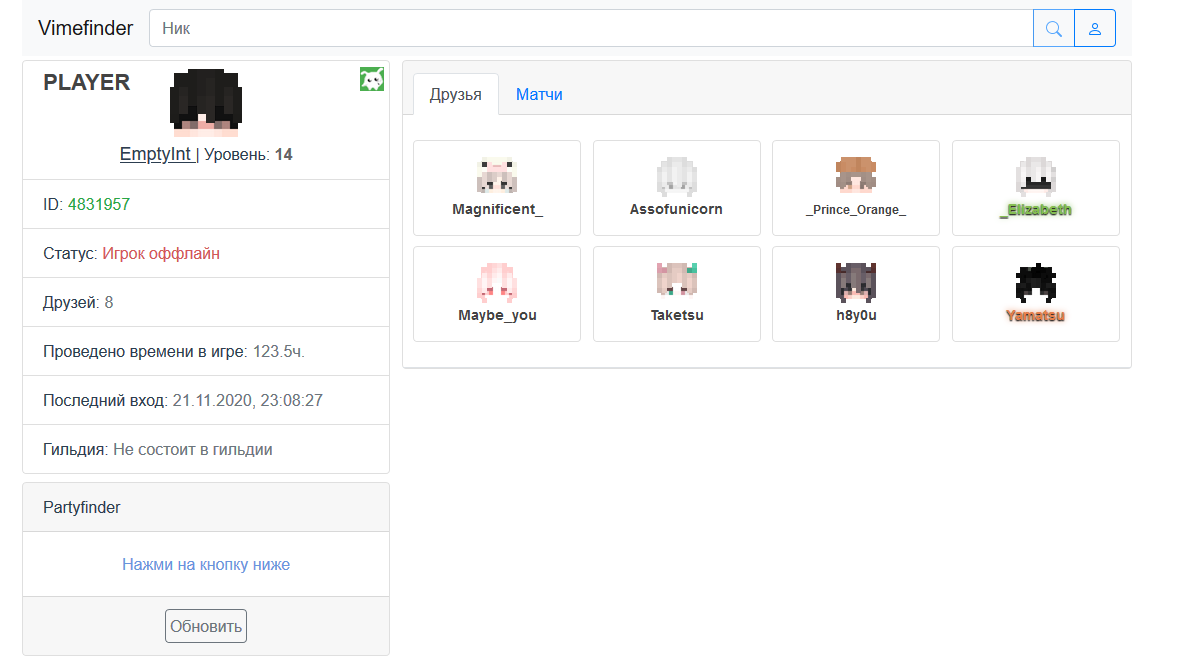
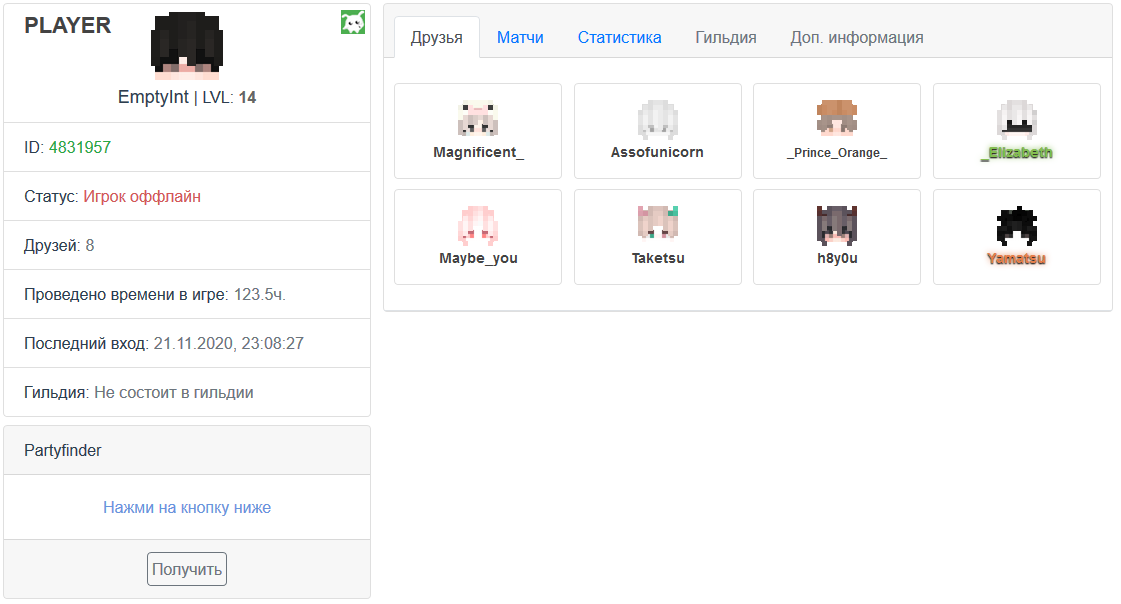
[description]
* .png's update
* Legacy matches integration
* Filters applied

diff --git a/src/components/Match.vue b/src/components/Match.vue
@@ -1,6 +1,6 @@
 <template>
     <div>
-        <b-card style="height: 8rem; width:13rem;" class="mt-3 mb-2" no-body>
+        <b-card style="height: 9rem; width:13rem;" class="mt-3 mb-2" no-body>
             <b-card-body class="position: relative;">
                 <b-card-title class="game-title">
                     {{match.game | translateTitle}}
@@ -8,9 +8,10 @@
                     <hr>
                 </b-card-title>
                 <div class="text-center">
-                    <p><span class="text-muted">Карта: </span> {{match.map.name}}</p>
+                    <p><span class="text-muted">Карта: </span> <span :style="{fontSize: (match.map.name.length > 14 ? '14px' : '16px')}">{{match.map.name}}</span></p>
                     <p><span class="text-muted">Игроков: </span> {{match.players}}</p>
                     <p><span class="text-muted">Длительность: </span> {{match.duration | normalDate}}</p>
+                    <p><span class="text-muted">Дата: </span> {{match.date | toLocaleDate}}</p>
                 </div>
             </b-card-body>
         </b-card>
@@ -27,14 +28,26 @@ export default {
     },
     methods:{
         getStatusColor(){
-            if(this.match.state === 1) return '#7BBD4F'
-            else if (this.match.state === 0) return '#D15252'
-            else return '#CAC959'
+            if(this.match.state){
+                if(this.match.state === 1) return '#7BBD4F'
+                else if (this.match.state === 0) return '#D15252'
+                else return '#CAC959'
+            }
+            else{
+                if(this.match.win) return '#7BBD4F'
+                else return '#D15252'
+            }
         },
         getStatusTitle(){
-            if(this.match.state === 1) return 'Победа'
-            else if (this.match.state === 0) return 'Поражение'
-            else return 'Ничья'
+            if(this.match.state){
+                if(this.match.state === 1) return 'Победа'
+                else if (this.match.state === 0) return 'Поражение'
+                else return 'Ничья'
+            }
+            else{
+                if(this.match.win) return 'Победа'
+                else return 'Поражение'
+            }
         }
     },
     filters:{
@@ -56,9 +69,16 @@ export default {
                     return 'Hunger Games Lucky'
                 case 'DUELS':
                     return 'Duels'
+                case 'SW':
+                    return 'Sky Wars'
+                case 'MURDER':
+                    return 'Murder Mystery'
                 default:
                     return value
             }
+        },
+        toLocaleDate : function(value){
+            return new Date(value * 1000).toLocaleString();
         }
     }
 }

diff --git a/src/views/User.vue b/src/views/User.vue
@@ -15,7 +15,7 @@
                                 <Person v-for="person in user.friends" :key="person.id" :person="person" />
                             </b-row>
                         </b-tab>
-                        <b-tab title="Матчи" @click="matchFirstLoad">
+                        <b-tab title="Матчи" @click="matchFirstLoad" :disabled="loading">
                             <Loader v-if="matchesLoading"/>
                             <b-row v-else cols="3" v-cloak>
                                 <b-col v-for="match in user.matches" :key="match.id">
@@ -98,12 +98,12 @@
 
                 console.log(rawUser);
 
-                if (rawUser != undefined) {
+                if (rawUser) {
                     this.user.rawUser = rawUser
-                    this.user.username = rawUser['username']
-                    this.user.last_seen = new Date(rawUser['lastSeen'] * 1000).toLocaleString();
-                    this.user.level = rawUser['level']
-                    this.user.id = rawUser['id']
+                    this.user.username = rawUser.username
+                    this.user.last_seen = rawUser.lastSeen
+                    this.user.level = rawUser.level
+                    this.user.id = rawUser.id
 
                     const session = await request(`http://localhost:5000/api/user/${this.user.id}/session`)
                     this.user.rawSession = session

diff --git a/src/components/Session.vue b/src/components/Session.vue
@@ -41,7 +41,7 @@
                 </b-list-group-item>
                 <b-list-group-item>
                     Последний вход:
-                    <span class="text-muted">{{user.last_seen}}</span>
+                    <span class="text-muted">{{user.last_seen | toLocaleDate}}</span>
                 </b-list-group-item>
                 <b-list-group-item>
                     Гильдия:
@@ -69,6 +69,11 @@
         },
         methods: {
 
+        },
+        filters:{
+            toLocaleDate : function(value){
+                return new Date(value * 1000).toLocaleString();
+            }
         },
         data() {
             return {
